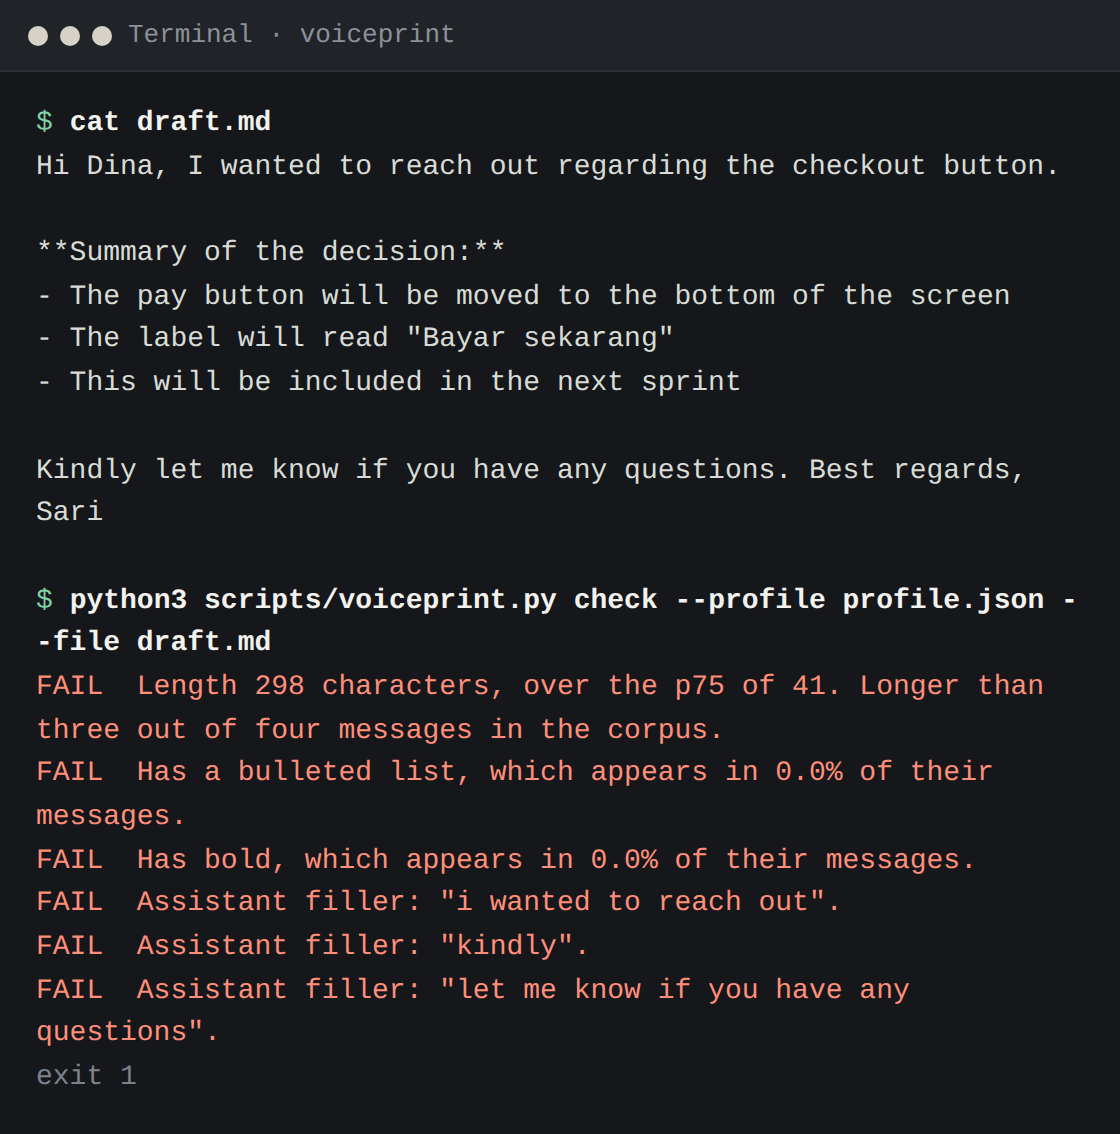
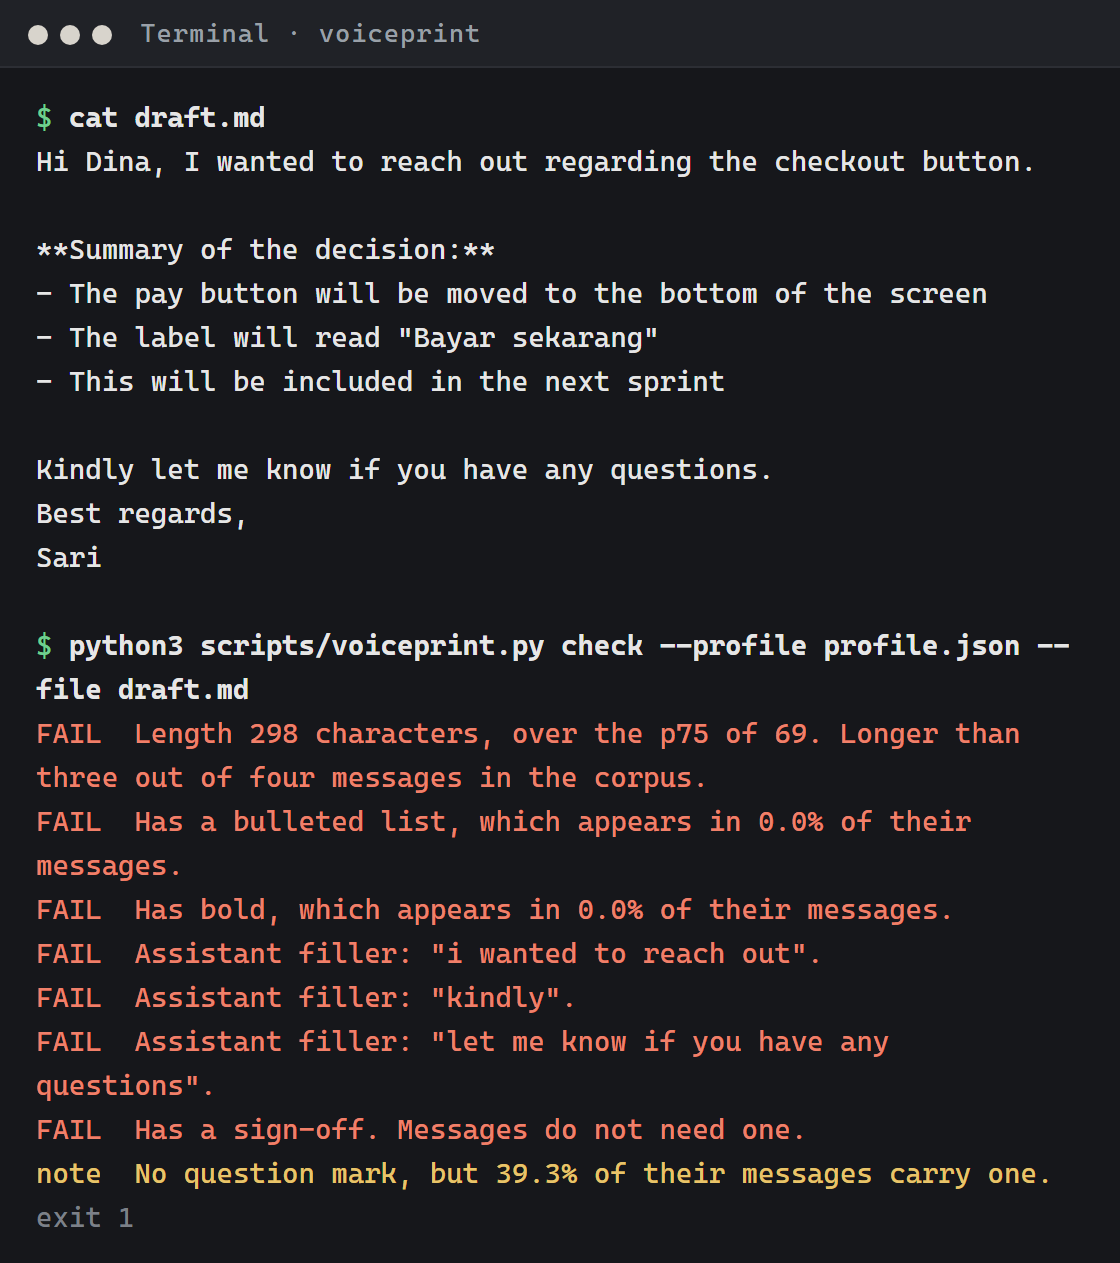
docs(readme): match demo images to the sample, fail loudly without grep
- Regenerate docs/voiceprint-check.png and docs/voiceprint-length.png from
  the real output on the shipped sample (p75 69, median 19, 300 messages).
- examples/draft.md puts "Best regards," on its own line, so the demo shows
  the sign-off check. README output block now lists seven FAILs.
- ingest --exclude-scan stops with an error when grep is not on PATH,
  instead of silently dropping nothing. Test added.
- README: drift warning states the 1.6x median threshold.

diff --git a/scripts/voiceprint.py b/scripts/voiceprint.py
@@ -21,6 +21,7 @@ import argparse
 import json
 import os
 import re
+import shutil
 import subprocess
 import sys
 import time
@@ -287,7 +288,7 @@ def flag_ai_drafted(rows, scan_dirs, min_words):
 
     True = found in the scanned tree, False = not found, None = too short to tell.
     """
-    hit_cache = {}
+    hit_cache, warned = {}, set()
     for r in rows:
         clean = strip_noise(r['text'])
         words = clean.split()
@@ -303,8 +304,19 @@ def flag_ai_drafted(rows, scan_dirs, min_words):
             try:
                 res = subprocess.run(['grep', '-rlF', '--', probe, d],
                                      capture_output=True, text=True, timeout=60)
-            except (OSError, subprocess.SubprocessError):
+            except OSError:
+                die('grep not found on PATH: --exclude-scan cannot search %s, so no '
+                    'AI-drafted message would be dropped. Install grep, or drop '
+                    '--exclude-scan if no AI has drafted messages for you.' % d)
+            except subprocess.SubprocessError as e:
+                warned.add(d)
+                print('warning: scan of %s failed (%s), treated as no match'
+                      % (d, e.__class__.__name__), file=sys.stderr)
                 continue
+            if res.returncode > 1 and d not in warned:
+                warned.add(d)
+                print('warning: grep could not read all of %s: %s'
+                      % (d, res.stderr.strip()[:200]), file=sys.stderr)
             if res.stdout.strip():
                 found = True
                 break
@@ -340,6 +352,10 @@ def cmd_ingest(args):
         missing = [d for d in args.exclude_scan if not os.path.isdir(d)]
         if missing:
             die('--exclude-scan paths do not exist: %s' % ', '.join(missing))
+        if not shutil.which('grep'):
+            die('grep not found on PATH: --exclude-scan needs it to search your drafts. '
+                'Install grep (macOS, Linux, WSL and Git Bash ship it), or drop '
+                '--exclude-scan if no AI has drafted messages for you.')
         print('scanning %d path(s) for AI-drafted messages' % len(args.exclude_scan),
               file=sys.stderr)
         flag_ai_drafted(uniq, args.exclude_scan, args.probe_words)

diff --git a/tests/test_voiceprint.py b/tests/test_voiceprint.py
@@ -91,6 +91,13 @@ def main():
             '--out', scanned)
     flagged = json.load(open(scanned, encoding='utf-8'))['counts']['ai_drafted']
     check('the AI-drafted message is caught', flagged > 0, 'flagged %d' % flagged)
+    no_grep = dict(os.environ, PATH=tmp)
+    r = subprocess.run([sys.executable, SCRIPT, 'ingest', '--source', 'jsonl', '--path',
+                        jsonl, '--exclude-scan', drafts, '--out',
+                        os.path.join(tmp, 'corpus_nogrep.json')],
+                       capture_output=True, text=True, env=no_grep)
+    check('a missing grep stops ingest, not a silent empty scan',
+          r.returncode != 0 and 'grep not found' in r.stderr, r.stderr)
 
     print('analyze')
     r = run('analyze', corpus, '--out', profile)

diff --git a/README.md b/README.md
@@ -8,7 +8,7 @@ voiceprint reads the messages you already sent and measures how you write: how l
 [![Version 1.0.0](https://img.shields.io/badge/version-1.0.0-green.svg)](CHANGELOG.md)
 [![Python 3.8+, standard library only](https://img.shields.io/badge/python-3.8%2B%20stdlib%20only-orange.svg)](#requirements)
 
-![A terminal shows an AI draft with a bold summary, three bullets and "Kindly let me know if you have any questions. Best regards". Then voiceprint check prints six FAIL lines: the draft is over the writer's 75th percentile length, it has a bulleted list and bold that appear in 0% of their messages, and it has three assistant filler phrases. It exits 1.](docs/voiceprint-check.png)
+![A terminal shows an AI draft with a bold summary, three bullets, "Kindly let me know if you have any questions." and "Best regards," on its own line. Then voiceprint check prints seven FAIL lines: 298 characters is over the writer's 75th percentile of 69, it has a bulleted list and bold that appear in 0% of their messages, it has three assistant filler phrases, and it has a sign-off. A note adds that 39.3% of their messages carry a question mark and the draft has none. It exits 1.](docs/voiceprint-check.png)
 
 ## AI writes your first draft now
 
@@ -65,7 +65,7 @@ flowchart LR
    `python3 scripts/voiceprint.py ingest --source slack --out corpus.json`
 2. **Drop the AI-drafted ones.** Point `--exclude-scan` at the folders where your old drafts live. The first nine words of each message are searched there, and a hit is dropped before anything is counted:
    `python3 scripts/voiceprint.py ingest --source slack --exclude-scan ./drafts ./docs --out corpus.json`
-3. **Analyze.** It measures the corpus and warns when the recent half is much longer than the older half, because that is often AI drafts the scan missed:
+3. **Analyze.** It measures the corpus and warns when the recent half's median length is more than 1.6 times the older half's, because that is often AI drafts the scan missed:
    `python3 scripts/voiceprint.py analyze corpus.json --out profile.json`
 4. **Render.** It writes `voice/voice.md` and `voice/voice_prompt.txt`:
    `python3 scripts/voiceprint.py render profile.json --out-dir ./voice --name "Sam"`
@@ -86,7 +86,7 @@ flowchart LR
 | `check`: a pre-send gate on length, rare habits, assistant filler and sign-offs, with exit codes | A hook that stops a draft that is not you, before anyone reads it |
 | A drift warning that compares the older and recent halves of your messages | Spotting AI-drafted messages the scan missed, or a voice that changed |
 
-![The top of a rendered voice.md: "Sari's voice", measured from 420 messages. A one-line model says she writes short, often entirely lowercase, and asks rather than announces. A length table shows a median of 34 characters and a 75th percentile of 41.](docs/voiceprint-length.png)
+![The top of a rendered voice.md: "Sari's voice", measured from 300 messages. A one-line model says she writes short, often entirely lowercase, and asks rather than announces. A length table shows a median of 19 characters, a 75th percentile of 69 and a 90th percentile of 74.](docs/voiceprint-length.png)
 
 All of it is one Python file with the standard library only. No dependencies, no install step, and nothing is sent to a model.
 
@@ -143,6 +143,7 @@ FAIL  Has bold, which appears in 0.0% of their messages.
 FAIL  Assistant filler: "i wanted to reach out".
 FAIL  Assistant filler: "kindly".
 FAIL  Assistant filler: "let me know if you have any questions".
+FAIL  Has a sign-off. Messages do not need one.
 note  No question mark, but 39.3% of their messages carry one.
 ```
 
@@ -218,7 +219,7 @@ The corpus is your private messages. It stays on your machine and is never sent 
 ## Requirements
 
 - **Python 3.8 or later.** Standard library only. Nothing to install.
-- **`grep` on your PATH** for `--exclude-scan`. macOS, Linux, WSL and Git Bash have it. Without it the scan finds nothing and no message is dropped.
+- **`grep` on your PATH** for `--exclude-scan`. macOS, Linux, WSL and Git Bash have it. Without it, ingest stops with an error.
 - **A Slack user token** (`xoxp-`) only for the live Slack source.
 - To run the tests: `python3 tests/test_voiceprint.py`. No network, no fixtures beyond a temp folder.
 
@@ -241,7 +242,7 @@ It can try, and the voice file helps. But a model drifts back to its own habits.
 
 ## Changelog
 
-The full history is in [CHANGELOG.md](CHANGELOG.md). **Latest: [1.0.0] - 2026-09-21**, the first public cut: `ingest`, `--exclude-scan`, `analyze`, `render` and `check`. Unreleased since then: `--version` and `--changelog`, which print the version and this changelog from the CLI:
+The full history is in [CHANGELOG.md](CHANGELOG.md). **Latest: [1.0.0] - 2026-09-21**, the first public cut: `ingest`, `--exclude-scan`, `analyze`, `render` and `check`. Unreleased since then: `--exclude-scan` stops with an error when `grep` is missing, instead of dropping nothing. And `--version` and `--changelog` print the version and this changelog from the CLI:
 
 ```bash
 python3 scripts/voiceprint.py --version            # voiceprint 1.0.0

diff --git a/CHANGELOG.md b/CHANGELOG.md
@@ -14,6 +14,10 @@ and the project uses [Semantic Versioning](https://semver.org/).
 - `--version` prints the version, and `--changelog` prints this changelog (a list of versions, or `full` for the whole file).
 - This `CHANGELOG.md`, backfilled from the git history.
 
+### Fixed
+- `ingest --exclude-scan` now stops with an error when `grep` is not on PATH. Before, the scan found nothing and silently dropped no AI-drafted message.
+- The sample draft in `examples/draft.md` puts its sign-off on its own line, so the demo shows the sign-off check firing.
+
 ## [1.0.0] - 2026-09-21
 <!-- source: git commit f53eb12 "voiceprint: measure how you actually write, then hold drafts to it" (2026-09-21 20:14 +0700), the initial and only commit. No git tag or GitHub release exists; 1.0.0 labels this first public cut. -->
 

diff --git a/examples/draft.md b/examples/draft.md
@@ -5,5 +5,6 @@ Hi Dina, I wanted to reach out regarding the checkout button.
 - The label will read "Bayar sekarang"
 - This will be included in the next sprint
 
-Kindly let me know if you have any questions. Best regards,
+Kindly let me know if you have any questions.
+Best regards,
 Sari
